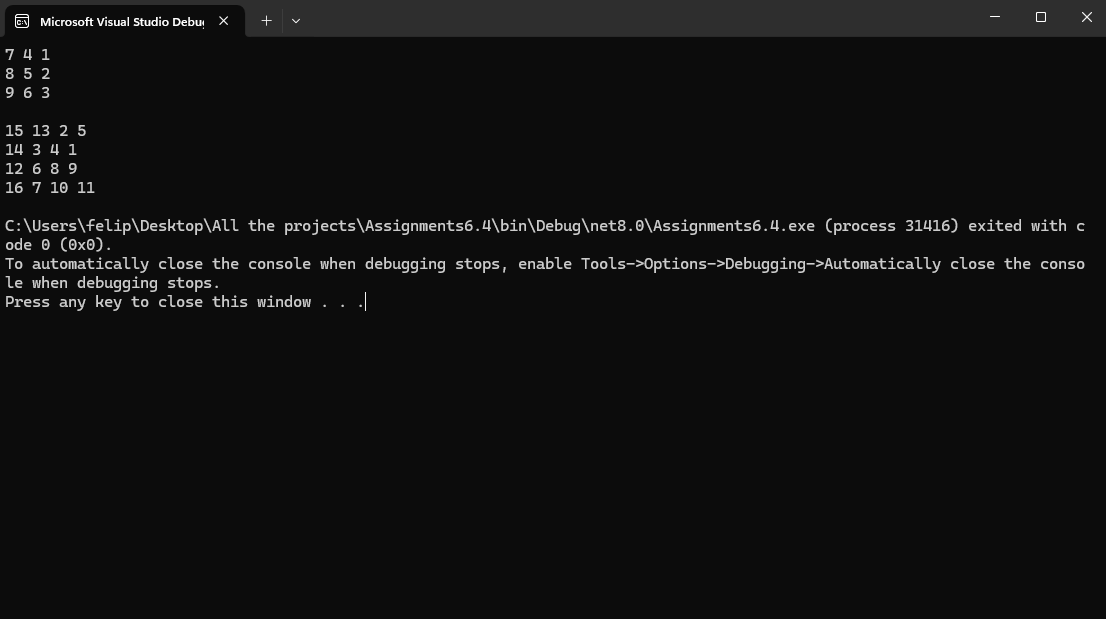
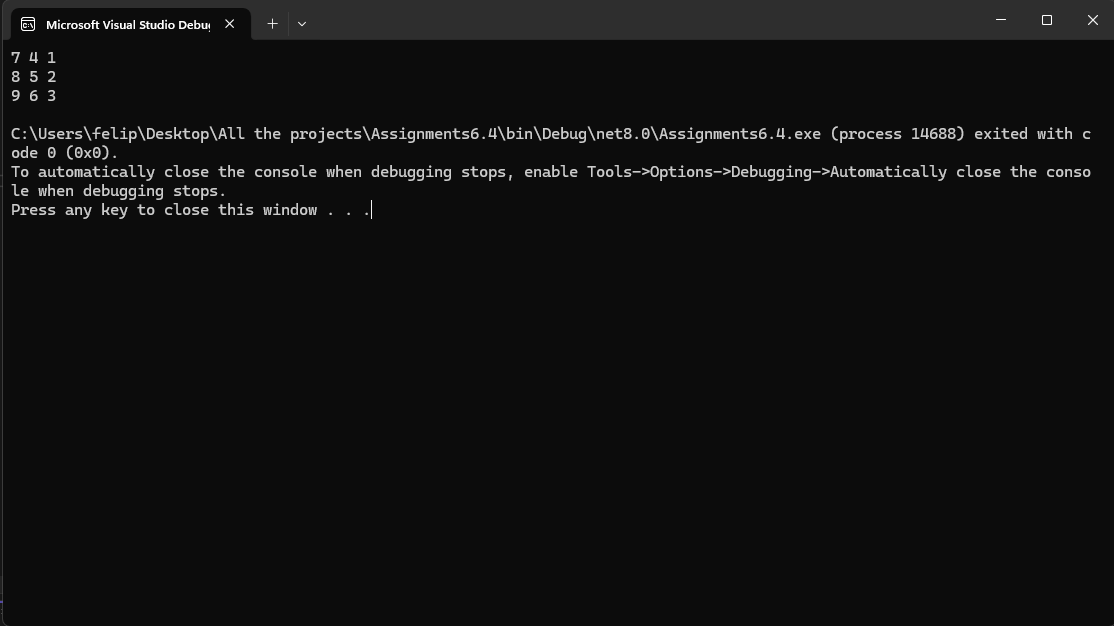
Add files via upload

Changed region(s): [[0.0, 0.0, 0.9837, 0.4911], [0.8608, 0.399, 0.9837, 0.4297], [0.9222, 0.0307, 0.953, 0.0614]]

diff --git a/Assignments6.4/Program.cs b/Assignments6.4/Program.cs
@@ -1,43 +1,60 @@
-namespace Assignments6._4
+using System.Numerics;
+
+namespace Assignments6._4
 {
     internal class Program
     {
         static void Main(string[] args)
         {
-            int[][] testOne = new int[][]
-            {
-            new int[] {1, 2, 3},
-            new int[] {4, 5, 6},
-            new int[] {7, 8, 9}
-            };
-            int[][] testTwo = new int[][]
-            {
-            new int[] {5, 1, 9,11},
-            new int[] {2, 4, 8,10},
-            new int[] {13, 3, 6,7},
-            new int[] {15,14,12,16}
-            };
+
+            int[,] testOne = { { 1, 2, 3 }, { 4, 5, 6 }, { 7, 8, 9 } };
             Rotate(testOne);
-            Console.WriteLine();
-            Rotate(testTwo);
-        }
-        //Leetcode #48
-        public static void Rotate(int[][] matrix)
-        {
-            ///Input: matrix = [[1,2,3],[4,5,6],[7,8,9]]
-            //Output: [[7, 4, 1],[8, 5, 2],[9, 6, 3]]
-            int temp = 0;
-            for (int j = 0; j <= matrix.Length - 1; j++)
+            for(int i = 0; i< testOne.GetLength(0); i++)
             {
-                for (int i = matrix.Length - 1; i >= 0; i--)
+                for(int x = 0; x < testOne.GetLength(0); x++)
                 {
-                    Console.Write(matrix[i][j] + " ");
+                    Console.Write(testOne[i,x] + " ");
+
                 }
                 Console.WriteLine();
             }
-
-
         }
-        
+
+        public static void Rotate(int[,] matrix)
+        {
+            //    ///Input: matrix = [[1,2,3],[4,5,6],[7,8,9]]
+            //    //Output: [[7, 4, 1],[8, 5, 2],[9, 6, 3]]
+            int matrixRow = matrix.GetLength(0);
+            if (matrixRow < 1) { return; }
+
+            for(int i=0; i<matrixRow; i++)
+            {
+                for(int x = i +1; x < matrixRow; x++)
+                {
+                    int temp = matrix[i, x];
+                    matrix[i, x] = matrix[x, i];
+                    matrix[x, i] = temp;
+                    //3 Way switch
+                    //[1,4,7]
+                    //[2,5,8]
+                    //[3,6,9]
+                }
+            }
+            for(int i = 0; i <matrixRow; i++)
+            {
+                for (int x = 0; x < matrixRow/2; x++)
+                {
+                    int temp = matrix[i, x];
+                    matrix[i, x] = matrix[i, matrixRow - x - 1];
+                    matrix[i, matrixRow - x - 1] = temp;
+                }
+                
+            }
+            //[7, 4, 1]
+            //[8, 5, 2]
+            //[9, 6, 3]]
+            //No need to return, matrix is reff type
+        }
+
     }
 }
